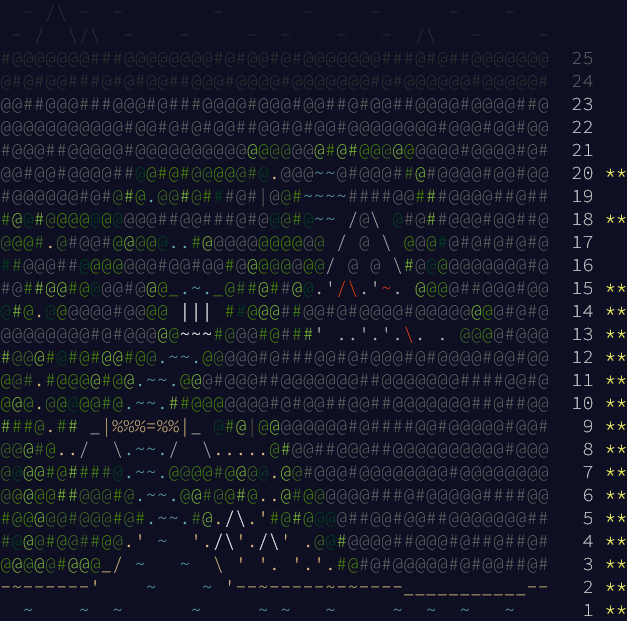
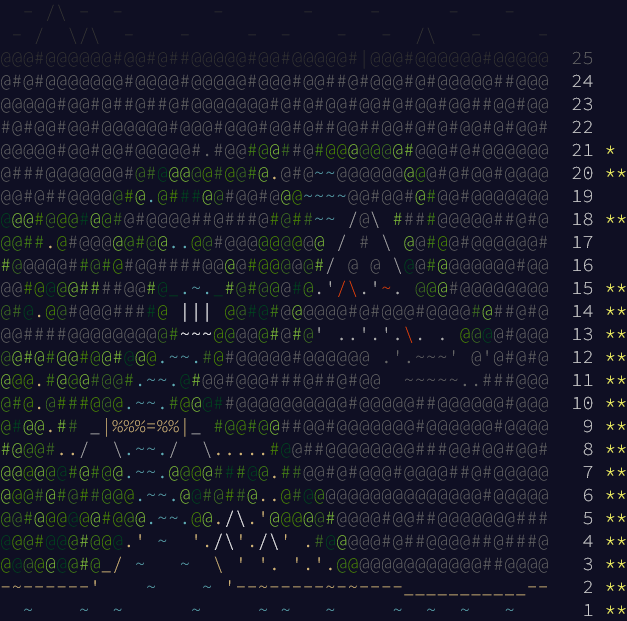
rust: 2022.21, part 1: solve

diff --git a/2022/rust/src/aoc21.rs b/2022/rust/src/aoc21.rs
@@ -4,7 +4,7 @@ use super::Day;
 
 pub struct Day21;
 
-type Number = i32;
+type Number = i64;
 
 const NAME_LEN: usize = 4;
 
@@ -36,9 +36,7 @@ where
     fn part1(input: I) -> Option<Number> {
         let monkeys = parse_monkeys(input)?;
 
-        println!("{monkeys:#?}");
-
-        todo!()
+        do_job(&monkeys, "root")
     }
 
     fn part2(_input: I) -> Option<Number> {
@@ -80,6 +78,22 @@ fn parse_monkey(s: &str) -> Option<(String, Job)> {
         let number = s.parse::<Number>().ok()?;
         Some((name, Job::Const(number)))
     }
+}
+
+fn do_job(monkeys: &HashMap<String, Job>, monkey: &str) -> Option<Number> {
+    Some(match monkeys.get(monkey)? {
+        Job::Const(number) => *number,
+        Job::Expr(operation) => {
+            let first_job = do_job(monkeys, &operation.first_operand)?;
+            let second_job = do_job(monkeys, &operation.second_operand)?;
+            match operation.operator {
+                Operator::Add => first_job + second_job,
+                Operator::Sub => first_job - second_job,
+                Operator::Mul => first_job * second_job,
+                Operator::Div => first_job / second_job,
+            }
+        }
+    })
 }
 
 #[cfg(test)]

diff --git a/2022/README.md b/2022/README.md
@@ -2,31 +2,31 @@
 ```
   - /\ -  -        -       -     -      -    -          
  - /  \/\  -    -     -  -    -   -  /\   -     -       
-#@@@@@@@###@@@@@@@@#@#@@#@#@@@@@@@###@#@##@@@@@@@  25
-@#@#@@###@#@#@@##@@@#@@@@#@@@@@@@#@#@@@@@@#@@@@@#  24
-@@##@@@###@@@#@###@@@@#@@@#@@##@#@@##@@@@#@@@@##@  23
-@@@@@@@@@@@#@@#@#@#@@##@@#@#@@#@@@@@@@@#@@@#@@#@@  22
-#@@@##@@@@@#@@@@@@@@@@@@@@@@@#@#@@@@@@@@@#@@@@#@#  21
-@@#@@#@@@@##@@#@#@@@@@#@.@@@~~@#@@@##@#@@@@#@@#@@  20 **
-#@@@@@@#@#@#@.@@#@###@#|@@#~~~~####@@###@@@@##@##  19
-#@@#@@@@@@@@@@##@@###@#@@@#@~~ /@\ @#@##@@@#@@##@  18 **
-@@@#.@#@@#@@@@@..#@@@@@@@@@@@ / @ \ @@@#@#@#@#@#@  17
-##@@@##@@@@@@@#@@#@@#@@@@@@@@/ @ @ \#@@@@@@@@@@#@  16
-#@##@@#@@@@#@@@_.~._@##@##@@.'/\.'~. @@@@##@@@#@@  15 **
-@#@.@@@@@@#@@@@ ||| ##@@@##@@#@#@@@@#@@@@@@@@#@#@  14 **
-@@@@@@@@#@#@@@@@~~~#@@@#@###' ..'.'.\. . @@@@#@@@  13 **
-#@@@#@#@#@@#@@.~~.@@@@@#@###@@#@#@@@#@#@@@@#@@#@@  12 **
-@@#.#@@@@#@@.~~.@@@#@@@##@@@@@@@##@@@@@@@####@@#@  11 **
-@@@.@@@@@#@.~~.##@@@@@@@#@#@@##@@##@@@@@@@##@##@@  10 **
-###@.## _|%%%=%%|_ @#@|@@@@@@@@#@####@@#@@@@@#@@#   9 **
-@@@#@../  \.~~./  \.....@#@@##@@@##@@@@@@@@@@#@@@   8 **
-@@@@#@####@.~~.@@@@#@@@@.@@#@@@#@@@@@@@@#@@@@@@@@   7 **
-@@@@@##@@@#@.~~.@@#@@#@..@#@@@@@@###@#@@@@@####@@   6 **
-#@@@@@#@@@#@#.~~.#@./\.'#@#@@@@##@@#@@##@@@@@@@##   5 **
-#@@@#@@##@@.' ~  './\'./\' .@@#@@@@##@@@#@##@##@#   4 **
-@@@@@#@@@_/ ~   ~  \ ' '. '.'.#@#@#@@@@@#@#@@##@#   3 **
+@@@#@@@@@@#@@#@##@@@@@#@@#@@@@@#|@@@#@@@@@@#@@@@@  25
+@#@#@@@@@@@#@@@@#@@@@@#@@@#@@##@#@@@#@#@@@@@##@@@  24
+@@@@@#@@#@##@##@#@@@@@@@#@#@#@@#@@#@#@@#@@##@@#@@  23
+#@#@@#@@#@@@@@@#@@@#@@@#@@#@##@@##@@#@#@#@@#@#@@#  22
+@@@@@#@@#@@#@@@@@#.#@@#@@##@#@@@@@@@#@@@#@#@@@@@@  21 *
+@###@@@@@@@#@#@@@@@#@@#@.@#@~~@@@@@@@@@#@#@@#@@@@  20 **
+@@#@##@@@@@#@.@###@@#@@#@@@~~~~@@#@@#@#@@#@@@@@@@  19
+@@@#@@@#@@#@#@@@@##@###@#@##~~ /@\ ####@@@@@##@#@  18 **
+@@##.@#@@@@@#@@..@@#@@@@@@@@@ / # \ @@#@@#@@@@@@#  17
+#@@@@@##@#@#@@####@@@@#@@@@@#/ @ @ \@@#@@@@@@@#@@  16
+@@#@@@@####@@#@_.~._#@#@@@#@.'/\.'~. @@@#@@@@@@@@  15 **
+@#@.@@#@@@####@ ||| @@#@#@@@@@@#@#@@@#@@@@#@##@#@  14 **
+@@####@@@@@@@@@#~~~@@@@@#@#@' ..'.'.\. . @@@@#@@@  13 **
+@@#@#@@#@@#@@@.~~.#@#@@@@@#@@@@@@ .'.~~~' @'@#@#@  12 **
+@@@.#@@@#@@#.~~.@#@@#@@@###@##@#@@  ~~~~~..###@@@  11 **
+@#@.@###@@@.~~.#@@@##@@@@@@@@@@#@@@@@##@@@@@@#@@@  10 **
+@#@@.## _|%%%=%%|_ #@@#@@##@@#@@@@@@@#@@@@@@#@@@@   9 **
+#@@@#../  \.~~./  \.....#@@##@@@@@@@@###@@#@@#@@#   8 **
+@@@@@@#@#@@.~~.@@@@###@@.##@@#@#@@@#@@@@##@#@@@@@   7 **
+@@@#@#@##@@@.~~.@@#@##@..@#@@@@@@@@@@@@@@@@#@@@@@   6 **
+@@#@@@@@@#@@@.~~.@@./\.'@@@@@#@@@@#@@##@@@@@@@###   5 **
+@@@#@@@#@@@.' ~  './\'./\' .#@@@@@#@##@@@@##@###@   4 **
+@@@@@@@#@_/ ~   ~  \ ' '. '.'.@@@@@@@@@@@@@##@@@@   3 **
 -~------'    ~    ~ '--~-----~-~----___________--   2 **
   ~    ~  ~      ~     ~ ~   ~     ~  ~  ~   ~      1 **
 ```
 
-![Calendar after day 15, 18, and then 20](calendar.png)
+![Calendar after day 15, 18, 20, and then 21, part 1](calendar.png)
